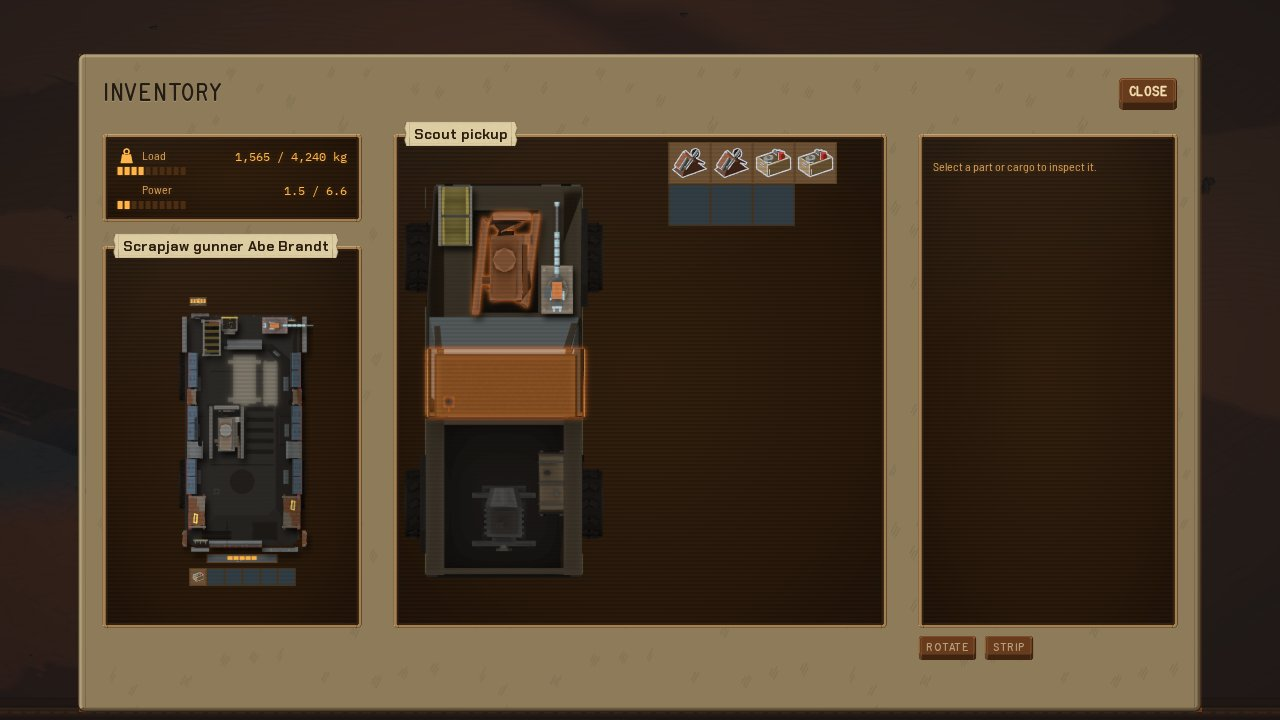
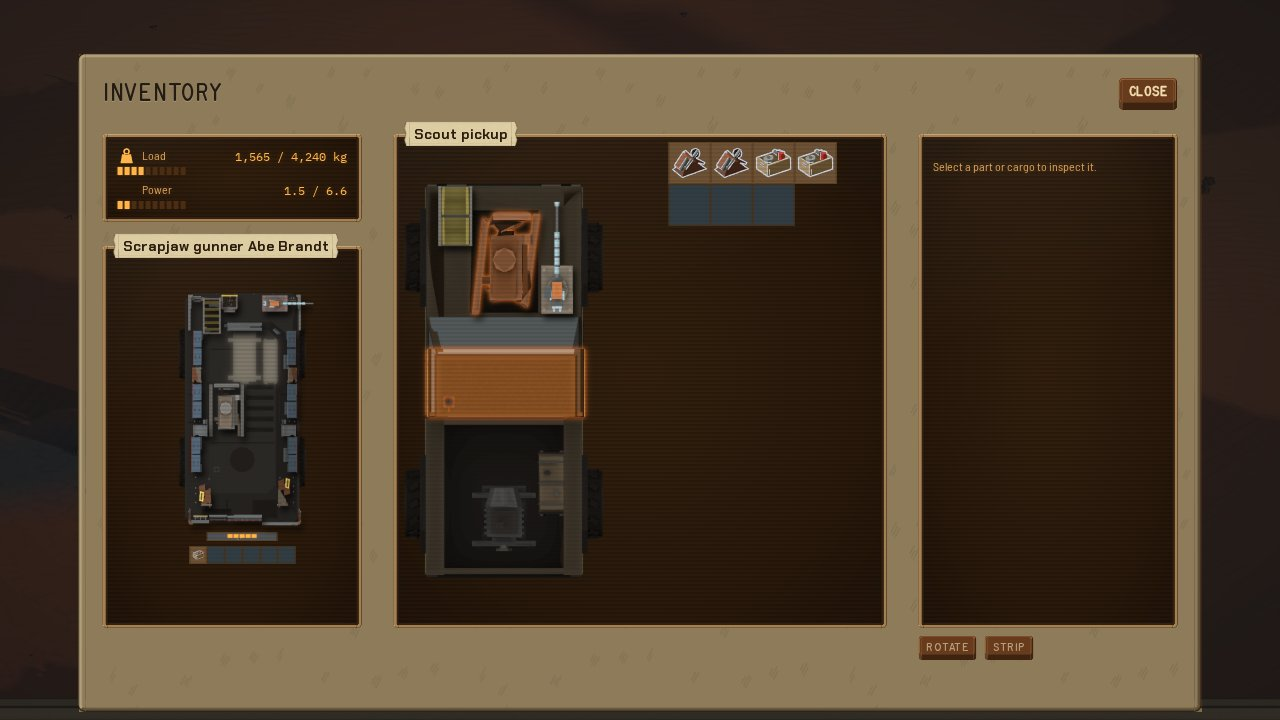
Let item lore scroll inside a full inventory card, retake screens and record it in the UI guide (#1843)

diff --git a/game/src/ui/styles/inventory.css b/game/src/ui/styles/inventory.css
@@ -556,7 +556,11 @@
   scrollbar-width: none;
 }
 .inv-details > .item-lore {
+  flex: 0 1000 auto;
+  min-height: 0;
   margin: 0;
+  overflow-y: auto;
+  scrollbar-width: none;
   font-size: var(--text-dense);
 }
 /* One row form: a stat grid in a card prints like the rows of the truck column, with one value edge. */

diff --git a/game/src/ui/scroll-wheel.ts b/game/src/ui/scroll-wheel.ts
@@ -18,6 +18,7 @@ export const SCROLL_SCREENS = [
   ".truck-body .inv-side",
   ".inv-body",
   ".inv-details > .stat-grid",
+  ".inv-details > .item-lore",
   ".inv-bench .well .inv-storage",
   ".inv-bench .inv-side-column > .well",
   ".rank-ladder",

diff --git a/game/docs/ui.md b/game/docs/ui.md
@@ -505,7 +505,7 @@ Use a shared piece before writing a new rule. A screen may add its own layout to
 - `[aria-disabled="true"]` dims a control that cannot be used now. A key keeps its cap and dims its print. It keeps hover and focus, so its tooltip can say why. A control is never locked because a turn is playing, except the inventory grid's edits, which name cells the turn is changing and stay locked with no reason, since the lock ends by itself. A press while a turn plays waits through `Game.whenTurnEnds()`, then runs once, in the order pressed, against the world as it is then, or is refused as a fresh press would be. The control changes state when it runs. `spokenReason()` in `src/ui/dom.ts` owns this, and `showControl`, `createSwitch`, `disabledWith` and `markDisabled` all use it.
 - `.tooltip` is a note that opens over its anchor. Words use the UI face and numbers use `.num`. It also gives the reason for a disabled control, as one short fact like "Need 12 M more".
 - A held item a shop does not take keeps its row on the Trading post, after the shop's goods, and a stored crate keeps its sell cell. Both show the sale off with its reason (`notTraded`), with no price, stock or profit, and never a missing row.
-- Item tip: the picture or box of a part, good or parcel on the inventory, shop, market, trade and outpost screens opens `itemTip()` from `src/ui/cards.ts`, the name and below it the item's lore. A shop row's open detail ends with the lore as a `<p class="dim">`. The selection card of a working screen leaves it out, since the same tip opens from the part on the grid. The HUD weapons bar, bare symbol icons and a card's own head icon keep the plain name. The name line repeats a visible name on rows, against P16, because the same tip opens from icon-only grid cells and ellipsized names. [Item lore](lore/README.md#item-lore) has the writing rules.
+- Item tip: the picture or box of a part, good or parcel on the inventory, shop, market, trade and outpost screens opens `itemTip()` from `src/ui/cards.ts`, the name and below it the item's lore. A shop row's open detail and the inventory selection card both end with the lore as `itemLoreEl()`, a `<p class="dim item-lore">` with no label. On a full card the lore is the one piece that shrinks and scrolls inside the details screen, so the stats and the cost lines stay in view (a bend of P25 for reference text a choice never needs). The same tip still opens from the part on the grid, since icon-only cells need it before any pick. The HUD weapons bar, bare symbol icons and a card's own head icon keep the plain name. The name line repeats a visible name on rows, against P16, because the same tip opens from icon-only grid cells and ellipsized names. [Item lore](lore/README.md#item-lore) has the writing rules.
 - `.chassis-feature` is the one dim line on a truck card in the shop: the ability name in bold, then its effect in one sentence with its numbers filled in from the chassis data. The outpost head and the truck trade head show the name as a chip with the effect as its title. The town band never does. The inventory's truck column prints the ability as its name and one stat row per number (`abilityRows()` in `src/ui/truck-panel.ts`), with the sentence as its tooltip (P24).
 - `.qt-term` is a word in quest text with a term tip: a dotted underline, and the `.term-tip` tooltip on hover and focus. A term tip is story text, so it keeps the in-character voice of P10, not the chrome voice of other tooltips. It is reference, never needed to choose. [Term tips](writing/quests.md#term-tips) has the writing rules.
 - The quest page view fills most of the screen, up to `--quest-page-width` by `--quest-page-height`, in three columns: the picture, the text and the quest's numbers and facts. The picture column is about as wide as the window is tall, and it shrinks first on small screens. The text column stays at least `--quest-text-min` wide, and its text is centered and capped at `--quest-text-width`, so lines stay readable. The right column keeps `--quest-side-width`. Where the picture column would fall under `--quest-art-min`, the page stacks like a narrow page: a picture band on top, then the text, then the side column. `questPageStacks()` sets `.stacked` from the window width. The picture keeps a shape between 3:4 and 3:1 (`--quest-frame-column`, `--quest-frame-band`) on every window. `questFrameFits()` checks it for `npm run layout`.
@@ -557,7 +557,7 @@ A screen where the player works on a truck has three columns: the subject on the
 ### Worked example: the inventory
 
 1. Decision: what do I do with this part or crate, and what does my truck look like after it.
-2. Key facts: load and power, since every change moves them, and the picked item's condition, mass and stats. Supporting: top speed with its causes on hover, acceleration, turning, fuel and supplies, the ability. Reference: the speed causes, the ability's sentence, an action's cost in words. Cut: free cells, money, mounted or spare (the drawing shows it), a mounted gun's arc (the fan shows it) and the lore (the grid's tip has it).
+2. Key facts: load and power, since every change moves them, and the picked item's condition, mass and stats. Supporting: top speed with its causes on hover, acceleration, turning, fuel and supplies, the ability. Reference: the speed causes, the ability's sentence, an action's cost in words, and the item's lore, last on the card. Cut: free cells, money, mounted or spare (the drawing shows it) and a mounted gun's arc (the fan shows it).
 3. States: nothing picked, a part with and without damage, a mounted and a spare gun, a crate, a refused action, a job, a refit queue, an open plan, loot, a downed truck, the scout and the sorokonoga, from 1512 by 860 down to 1024 by 600.
 4. Surface: a modal from `--modal-top` down to the bottom edge. The instruments and the log hide under it, and an opening tip sits in the free middle of the top row.
 5. Left well: Load and Power as `.meter-row`, then Top speed, Acceleration and Turning, then Fuel and Supplies, then the ability's name and rows, with the job block at the bottom. Loot takes the place of everything under Load and Power. Another truck, looked over or downed, gets its own screen under the budget well: its name on tape on the lip, the downed state as the first line, then the drawing. The budget well shrinks to its content to give it room.
